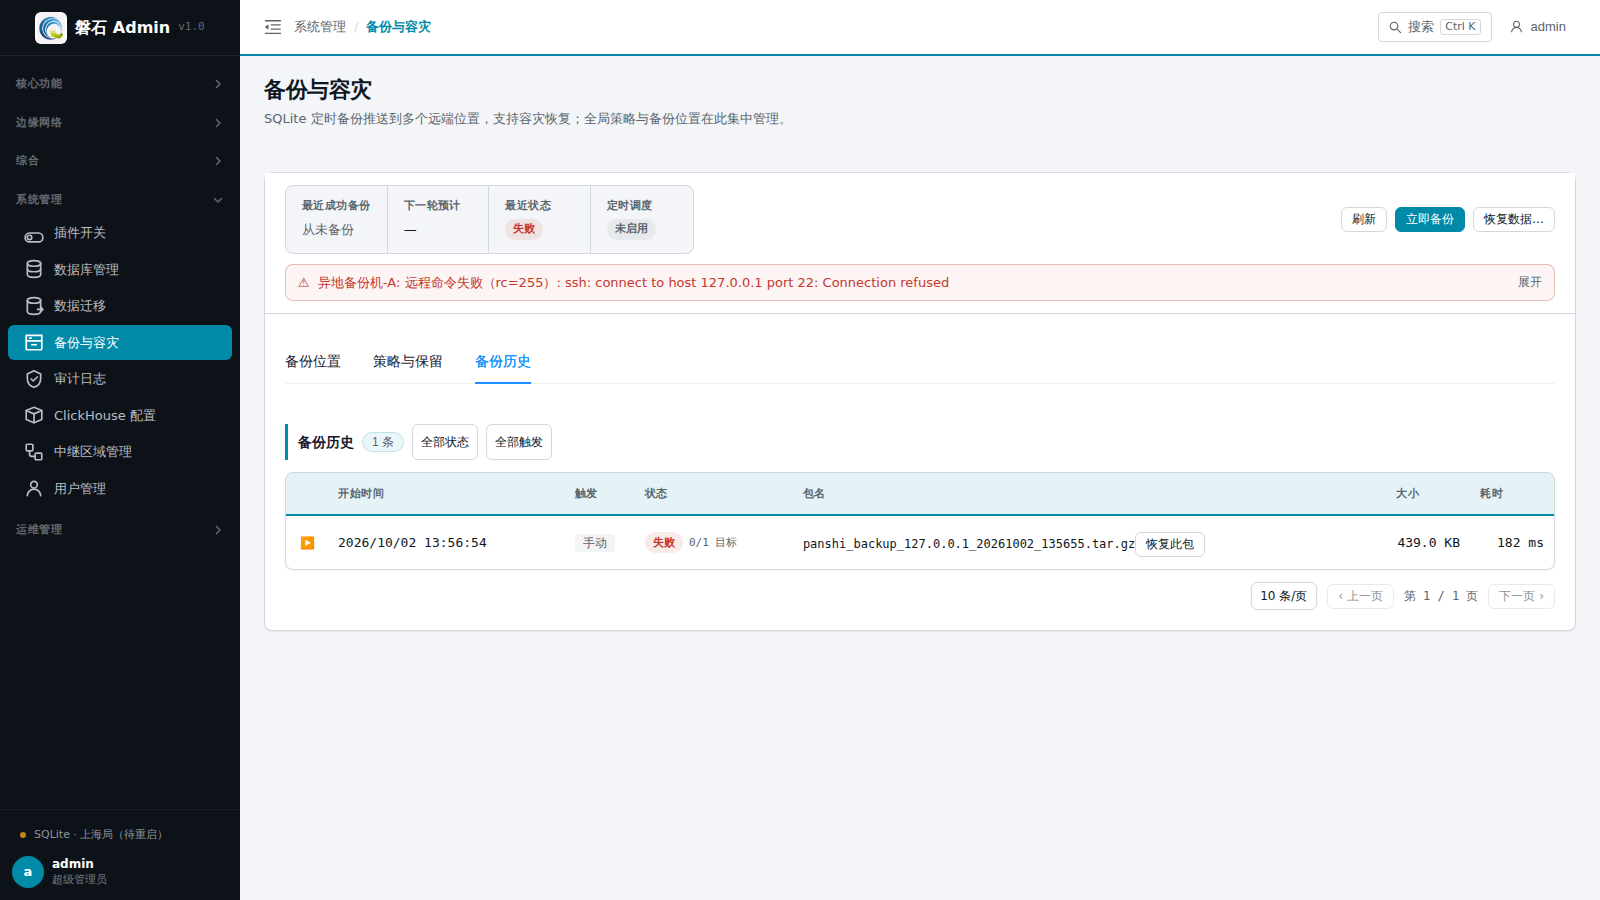
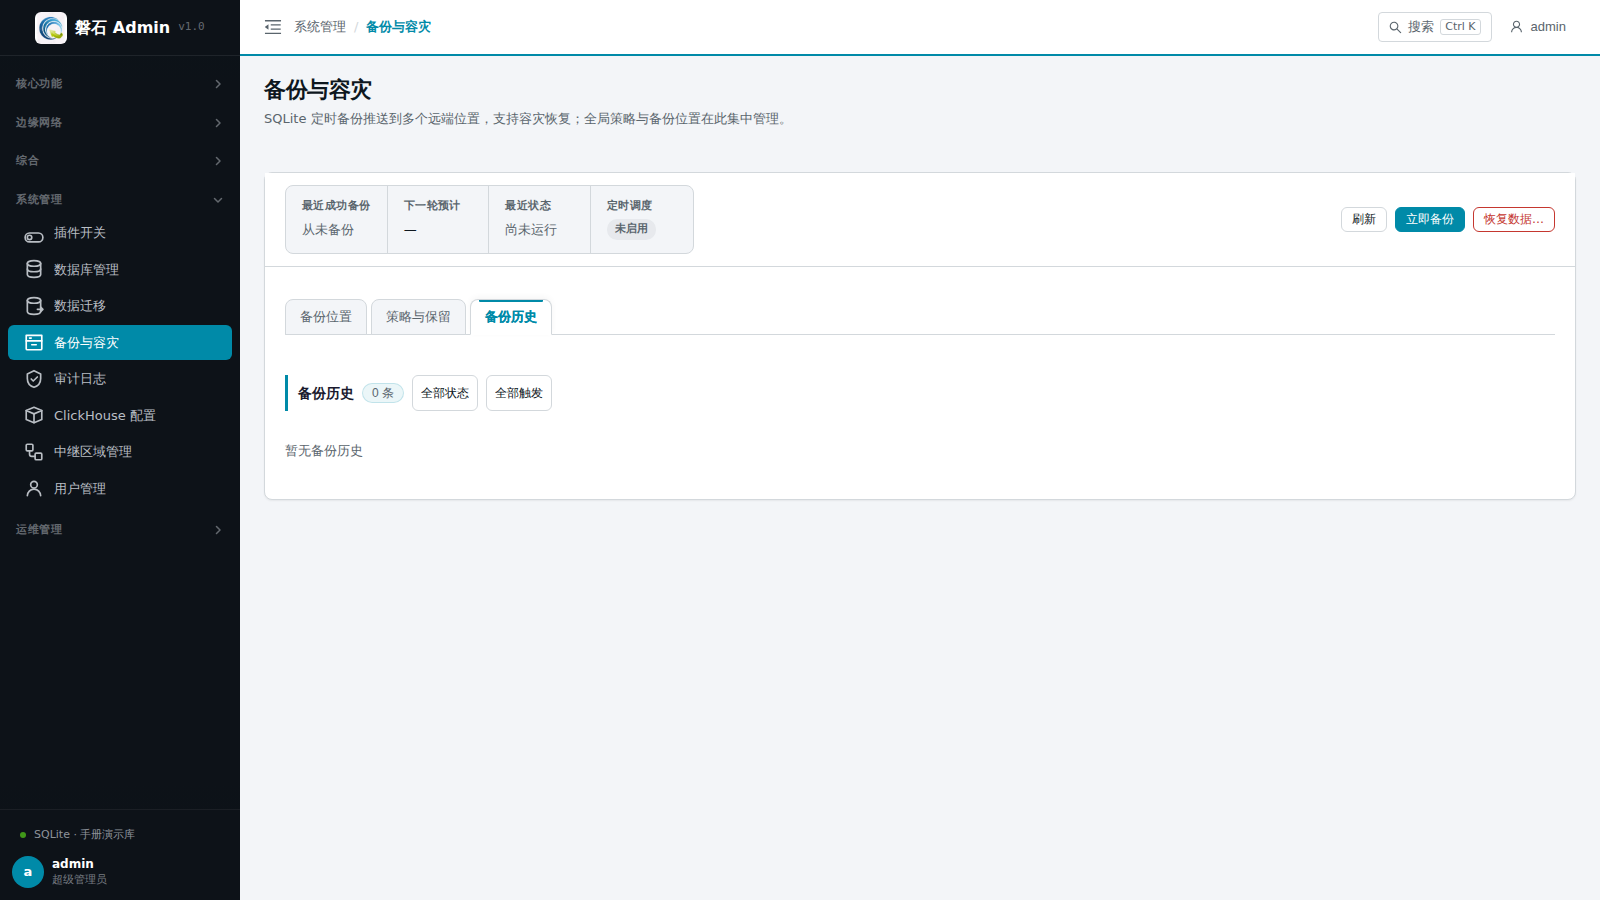
feat(backup): 恢复此包直达向导第 2 步 + 恢复数据入口危险化——向导新增 preselectTargetId：历史行捕获首个成功位置，开门 initSource 自动切已配置模式、选中该位置并自动列包（loadTargets 会复位下拉，预选须在其后应用），落第 2 步预选包，校验/确认安全闸保留，位置已删回退全部位置聚合；「恢复数据…」与摘要卡「恢复数据」改 btn-danger-outline 红描边（与向导内 btn-danger 实心确认形成递进）；ux+wizard 58/58、全家族 28/28、vue-tsc 干净；20 章行为口径同步 + 6 张手册截图重拍（

diff --git a/frontend/src/components/DbBackupRestoreWizard.vue b/frontend/src/components/DbBackupRestoreWizard.vue
@@ -430,6 +430,9 @@ const props = defineProps<{
   visible: boolean
   /** M8：从备份历史「恢复此包」进入时预选的包名（列包成功后自动选中，consumed in 5.4） */
   preselectPackageName?: string | null
+  /** 历史直达：预选的已配置位置 id——开门即切「已配置位置」模式、选中该位置并自动列包，
+   *  与 preselectPackageName 叠加后用户直接落在第 2 步（仍需手动「校验此包」，安全闸保留） */
+  preselectTargetId?: number | null
 }>()
 
 const emit = defineEmits<{
@@ -880,11 +883,28 @@ watch(
     chooserOptions.value = []
     chosenVerifyTargetId.value = null
     verifySourceLabel.value = ''
-    void loadTargets()
+    void initSource()
   },
   // immediate：整页挂载即处于打开态（如 HMR / 直链恢复入口）时也要初始化
   { immediate: true },
 )
+
+/** 开门初始化：通用入口仅加载位置列表；历史「恢复此包」直达（preselectTargetId）
+ *  切已配置位置模式、选中该位置并自动列包——位置已被删除时回退「全部位置」聚合。
+ *  列包成功后由既有 preselectPackageName 逻辑自动选中目标包并进入第 2 步。 */
+async function initSource(): Promise<void> {
+  const directId = props.preselectTargetId
+  if (directId == null) {
+    void loadTargets()
+    return
+  }
+  // loadTargets 会把 sourceMode/selectedTargetId 复位（'all' 或手动），预选须在其后应用
+  await loadTargets()
+  if (targets.value.some((t) => t.id === directId)) {
+    selectedTargetId.value = String(directId)
+  }
+  if (targetReady.value) await handleList()
+}
 </script>
 
 <style scoped>

diff --git a/frontend/src/components/DbBackupCard.vue b/frontend/src/components/DbBackupCard.vue
@@ -50,7 +50,8 @@
           <button class="btn btn-primary btn-sm" :disabled="runDisabled" @click="requestRunNow">
             {{ running ? '备份中…' : '立即备份' }}
           </button>
-          <button class="btn btn-secondary btn-sm" @click="openWizard">恢复数据…</button>
+          <!-- 危险流入口：红色描边（向导内最终「执行恢复」为 btn-danger 实心，形成入口→确认的递进） -->
+          <button class="btn btn-danger-outline btn-sm" @click="openWizard">恢复数据…</button>
         </div>
       </div>
       <div v-if="running" class="form-hint dbb-run-expectation">
@@ -386,6 +387,7 @@
   <DbBackupRestoreWizard
     v-model:visible="wizardOpen"
     :preselect-package-name="preselectPkgName"
+    :preselect-target-id="preselectTargetId"
     @restored="handleRestored"
   />
 
@@ -929,10 +931,13 @@ const historyCountText = computed(() =>
 
 /** M8：从历史行发起恢复——记录预选包名并打开向导 */
 const preselectPkgName = ref<string | null>(null)
+/** 历史直达：该包首个成功位置 id（向导开门即自动列包；null = 通用入口 */
+const preselectTargetId = ref<number | null>(null)
 
 function openWizardForPackage(item: DbBackupHistoryItem): void {
   if (!item.package_name) return
   preselectPkgName.value = item.package_name
+  preselectTargetId.value = item.targets?.find((t) => t.status === 'success')?.target_id ?? null
   wizardOpen.value = true
 }
 
@@ -1374,6 +1379,7 @@ function closeRunResult(): void {
 
 function openWizard(): void {
   preselectPkgName.value = null
+  preselectTargetId.value = null
   wizardOpen.value = true
 }
 

diff --git a/frontend/src/components/__tests__/DbBackupRestoreWizard.ux.test.ts b/frontend/src/components/__tests__/DbBackupRestoreWizard.ux.test.ts
@@ -427,6 +427,23 @@ describe('5.4 历史预选包与「仅看最新」', () => {
     expect(rows[0].classes()).not.toContain('selected')
   })
 
+  it('preselectTargetId 直达：开门即按该位置自动列包并预选包，免手动选来源', async () => {
+    const nameB = 'panshi_backup_node-a_20260929_154243.tar.gz'
+    mockGetConfig.mockResolvedValue(configWithTargets([makeTarget({ id: 7, name: '异地A' })]))
+    mockList.mockResolvedValue({ data: { packages: [pkg(), pkg({ name: nameB })], failed_locations: null } })
+    const wrapper = mount(DbBackupRestoreWizard, {
+      props: { visible: true, preselectTargetId: 7, preselectPackageName: nameB },
+      global: { stubs },
+    })
+    await flushAll()
+    expect(mockList).toHaveBeenCalledTimes(1)
+    expect(mockList).toHaveBeenCalledWith({ target_id: 7 })
+    const rows = wrapper.findAll('.dbw-pkg')
+    expect(rows.length).toBe(2)
+    expect(rows[1].classes()).toContain('selected')
+    expect(rows[0].classes()).not.toContain('selected')
+  })
+
   it('preselectPackageName 未命中时不选中', async () => {
     const wrapper = await mountAndListPkgList([pkg()], 'panshi_backup_missing_20260101_000000.tar.gz')
     const rows = wrapper.findAll('.dbw-pkg')

diff --git a/frontend/src/components/DbBackupSummaryCard.vue b/frontend/src/components/DbBackupSummaryCard.vue
@@ -4,7 +4,8 @@
       <h3>SQLite 备份与容灾</h3>
       <div class="dbb-sum-header-actions">
         <button class="btn btn-primary btn-sm" @click="goManagement">进入备份管理</button>
-        <button class="btn btn-secondary btn-sm" @click="goRestore">恢复数据</button>
+        <!-- 危险流入口：与备份页常驻层「恢复数据…」同款红色描边 -->
+        <button class="btn btn-danger-outline btn-sm" @click="goRestore">恢复数据</button>
       </div>
     </div>
     <div class="card-body">

diff --git a/frontend/src/components/__tests__/DbBackupCard.ux.test.ts b/frontend/src/components/__tests__/DbBackupCard.ux.test.ts
@@ -671,6 +671,7 @@ describe('M8 从备份历史发起恢复', () => {
     expect(wizard.exists()).toBe(true)
     expect(wizard.props('visible')).toBe(true)
     expect(wizard.props('preselectPackageName')).toBe('panshi_backup_node-a_20260930_154243.tar.gz')
+    expect(wizard.props('preselectTargetId')).toBe(1)
   })
 })
 

diff --git a/docs/user-manual/20-backup-management.md b/docs/user-manual/20-backup-management.md
@@ -99,7 +99,7 @@
 | 触发 | 定时 / 手动 |
 | 状态 | ✓ 成功（所有启用位置推送成功）/ ⚠ 部分成功（本地已打包、部分位置推送失败）/ ✗ 失败 |
 | 耗时 / 开始时间 | 执行时长与触发时刻 |
-| 操作 | 【恢复此包】——直达恢复向导并**预选该包**（仍需完成校验与确认） |
+| 操作 | 【恢复此包】——直达恢复向导：自动定位该包所在位置、列包并**预选该包**，直接从第 2 步校验继续（安全闸保留，仍需手动校验与确认） |
 
 展开任意一行可看**分位置结果**：每个启用位置的推送结果（✓ 推送成功 / ✗ 推送失败及原因）与本地缓存状态（✓ 已缓存 `backend/data/archives/`）。推送失败但本地缓存成功的包，仍可通过本地缓存恢复。
 
